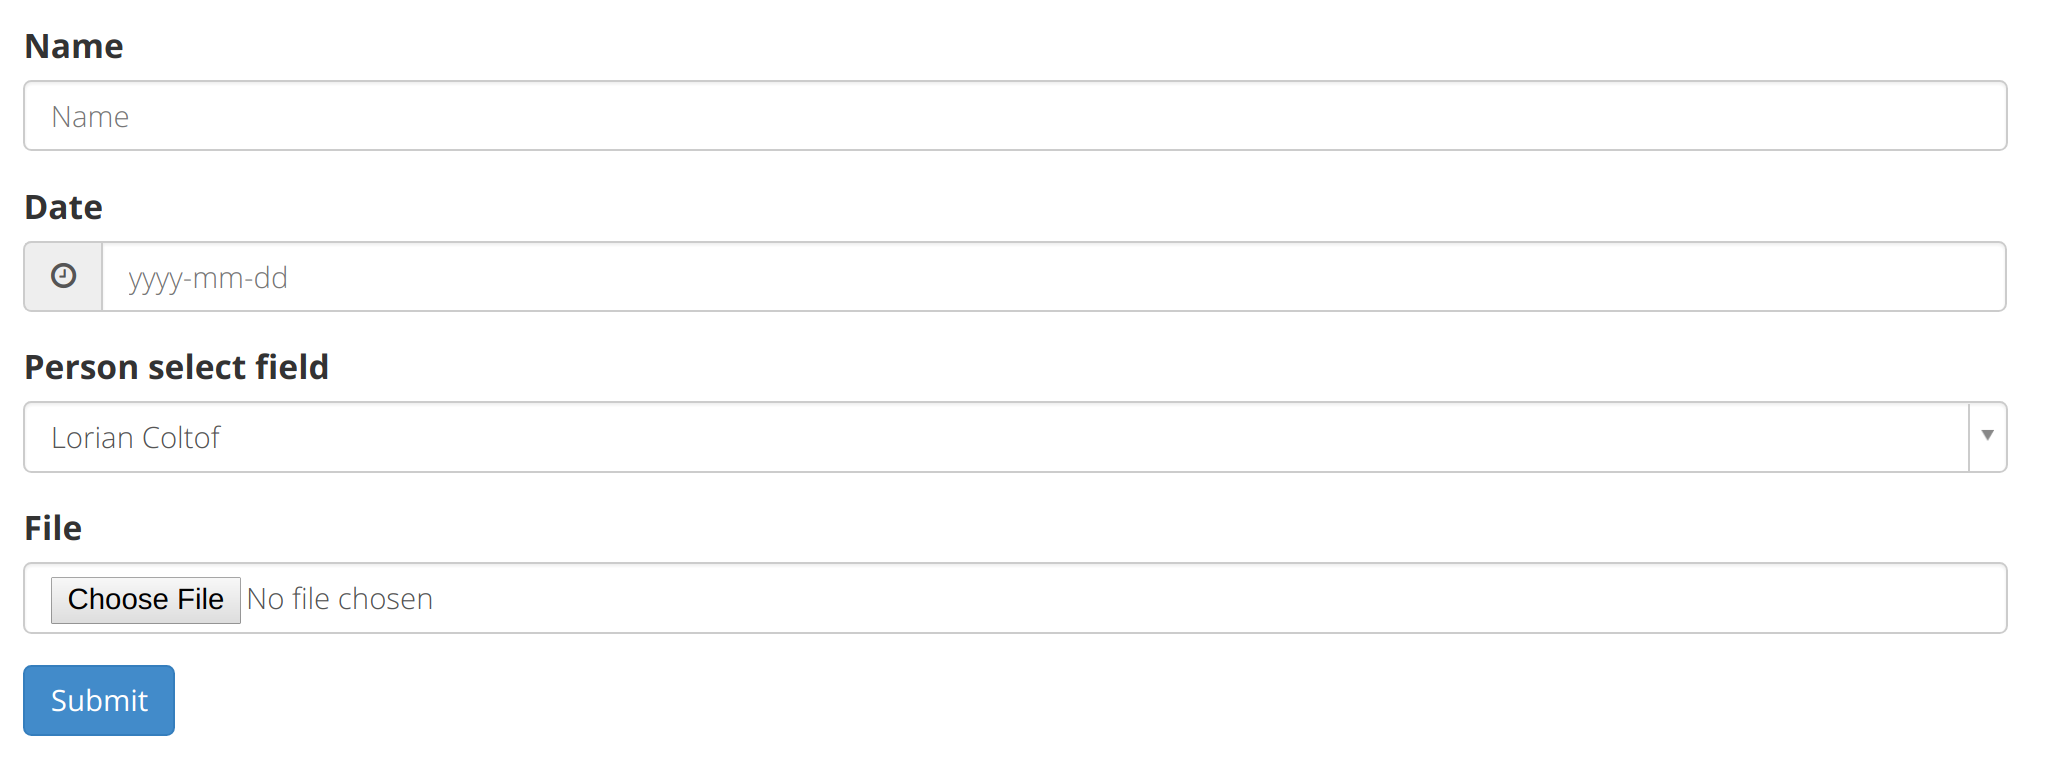
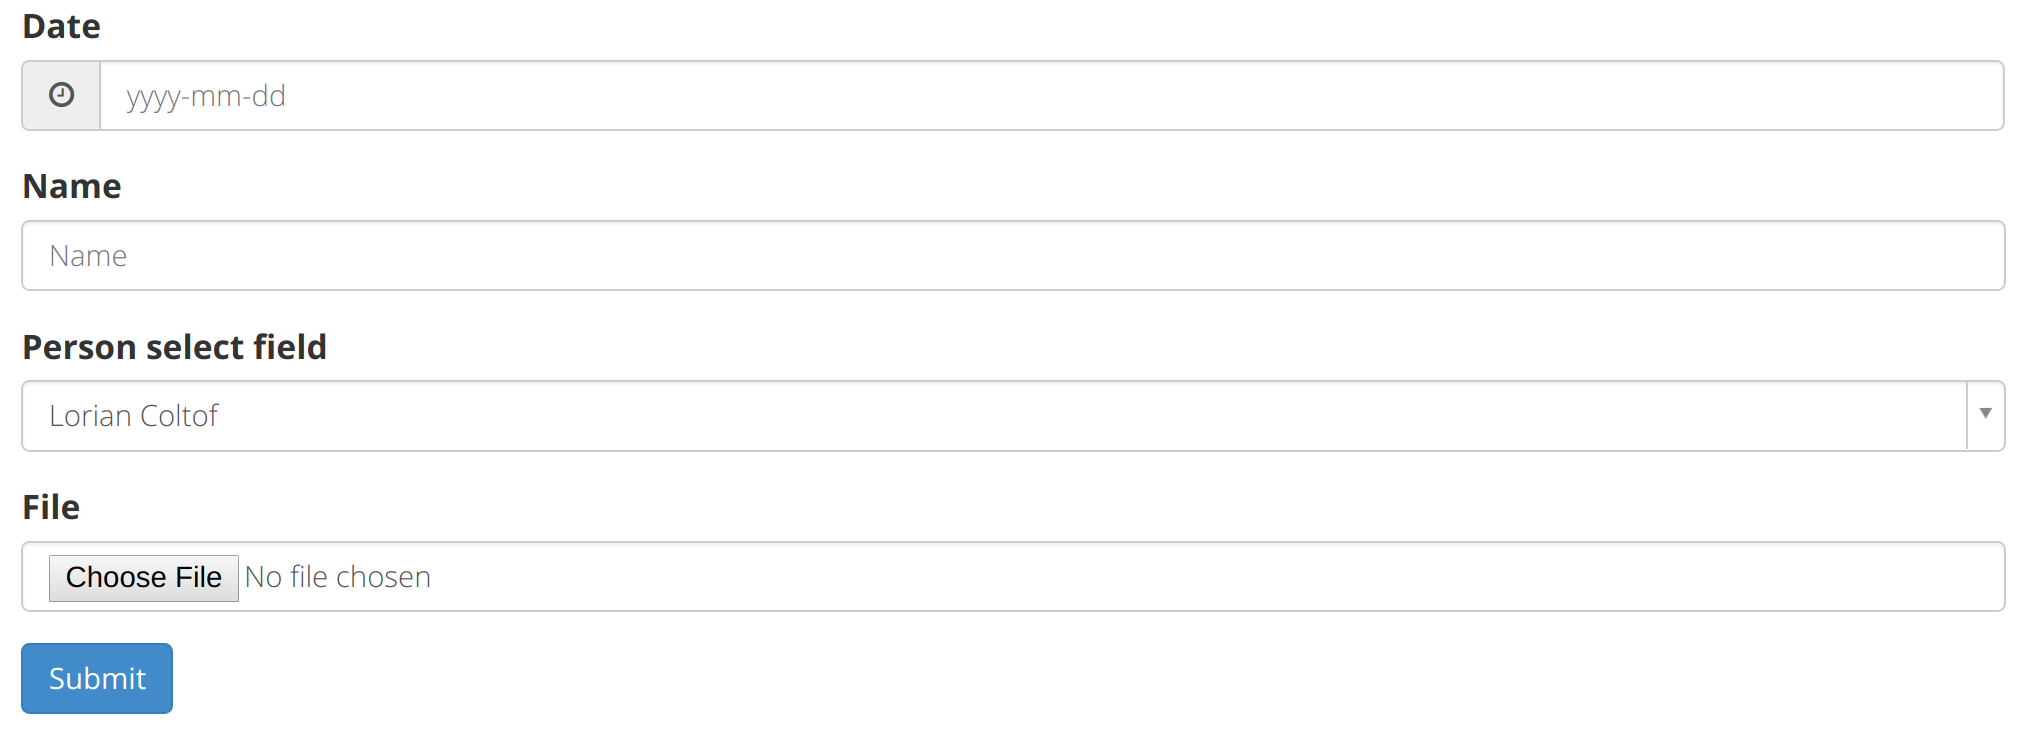
Add extra render hook example

diff --git a/docs/forms/README.md b/docs/forms/README.md
@@ -12,8 +12,8 @@ This can be done with the `render_form` macro contained in [`macros/form.htm`](.
 Form definition:
 ```python
 class ExampleForm(Form):
-    name = StringField(_('Name'), validators=[InputRequired()])
     date = DateField(_('Date'))
+    name = StringField(_('Name'), validators=[InputRequired()])
     person = QuerySelectField(
         _('Person select field'),
         query_factory=lambda: user_service.find_members())
@@ -80,7 +80,7 @@ Optional parameters
                                   The function / macro is called with the field that was just rendered as
                                   an argument.
 
-#### `kwargs`
+#### kwargs
 
 Every (custom) render macro must take `**kwargs`,
 but sometimes there is no use for it.
@@ -173,6 +173,26 @@ This will render:
 
 This will render:
 ![Form example with a before/after render hook](img/form_before_after_render_hook.png)
+
+Since the render hooks get the field as an argument,
+this makes it is easy to render something before or after a specific field:
+```jinja
+{% extends 'content.htm' %}
+{% from 'macros/form.htm' import render_form  %}
+
+{% macro my_render_after_hook(f) %}
+{% if f.name == 'date' %}
+    <hr />
+{% endif %}
+{% endmacro %}
+
+
+{% block content %}
+{{ render_form(form, render_after_hook=my_render_after_hook) }}
+{% endblock %}
+```
+This will render:
+![Form example with a after render hook](img/form_render_hook_one_field.png)
 
 ### Tabs
 
